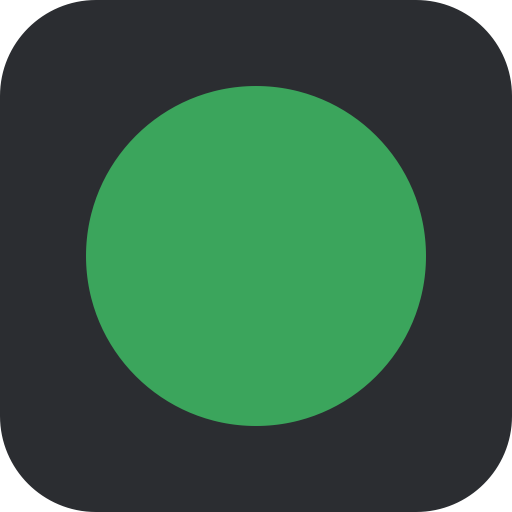
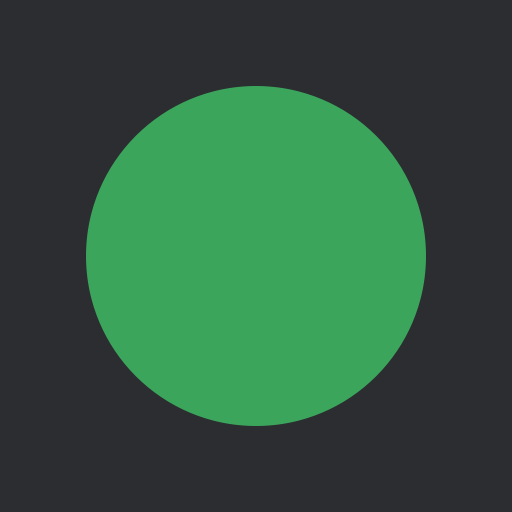
Full-square Discord art (v2_ keys), setup guide, README for Mac and Windows
The first Discord pictures had their own rounded corners on a white background,
which left white specks once Discord rounded them again. v2_* fills the square and
lets Discord do the rounding; both apps now ask for the v2_ keys, and the old keys
stay on Discord so 1.0.0 keeps working. docs/SETUP.md walks through setup with
screenshots from the demo-mode harnesses.

diff --git a/mac/Tests/CoreTests.swift b/mac/Tests/CoreTests.swift
@@ -58,7 +58,7 @@ final class CoreTests: XCTestCase {
         XCTAssertEqual(a["type"] as? Int, 3)
         XCTAssertEqual(a["details"] as? String, "123 mg/dL ↗")
         XCTAssertEqual(a["state"] as? String, "Rising slowly")
-        XCTAssertEqual((a["assets"] as? [String: String])?["large_image"], "up_45")
+        XCTAssertEqual((a["assets"] as? [String: String])?["large_image"], "v2_up_45")
     }
 
     func testDotModeNeverShowsTheNumber() {
@@ -67,7 +67,7 @@ final class CoreTests: XCTestCase {
         let a = Presence.activity(reading: r, now: now, mode: .dot, unit: .mgdl, verb: .playing, low: 70, high: 180)
         XCTAssertEqual(a["type"] as? Int, 0)
         XCTAssertEqual(a["details"] as? String, "High")
-        XCTAssertEqual((a["assets"] as? [String: String])?["large_image"], "dot_yellow")
+        XCTAssertEqual((a["assets"] as? [String: String])?["large_image"], "v2_dot_yellow")
         XCTAssertFalse(String(describing: a).contains("250"))
         XCTAssertNil(a["state"])
     }

diff --git a/mac/BloodGlucoseBuddy/Core/Presence.swift b/mac/BloodGlucoseBuddy/Core/Presence.swift
@@ -30,9 +30,9 @@ enum Band: Equatable {
     }
     var asset: String {
         switch self {
-        case .low: return "dot_red"
-        case .inRange: return "dot_green"
-        case .high: return "dot_yellow"
+        case .low: return "v2_dot_red"
+        case .inRange: return "v2_dot_green"
+        case .high: return "v2_dot_yellow"
         }
     }
 }
@@ -66,7 +66,7 @@ enum Presence {
         var activity: [String: Any] = ["type": verb.activityType]
         guard let r = reading, isFresh(r, now: now) else {
             activity["details"] = "No reading"
-            activity["assets"] = ["large_image": "dot_gray", "large_text": "No recent reading"]
+            activity["assets"] = ["large_image": "v2_dot_gray", "large_text": "No recent reading"]
             return activity
         }
         let b = band(r.mgdl, low: low, high: high)

diff --git a/mac/BloodGlucoseBuddy/Core/Dexcom.swift b/mac/BloodGlucoseBuddy/Core/Dexcom.swift
@@ -73,13 +73,13 @@ enum Trend: String {
     /// Discord art asset key, uploaded to the "Blood Glucose" application.
     var asset: String? {
         switch self {
-        case .doubleUp: return "double_up"
-        case .singleUp: return "up"
-        case .fortyFiveUp: return "up_45"
-        case .flat: return "flat"
-        case .fortyFiveDown: return "down_45"
-        case .singleDown: return "down"
-        case .doubleDown: return "double_down"
+        case .doubleUp: return "v2_double_up"
+        case .singleUp: return "v2_up"
+        case .fortyFiveUp: return "v2_up_45"
+        case .flat: return "v2_flat"
+        case .fortyFiveDown: return "v2_down_45"
+        case .singleDown: return "v2_down"
+        case .doubleDown: return "v2_double_down"
         default: return nil
         }
     }

diff --git a/windows/Core/Presence.cs b/windows/Core/Presence.cs
@@ -14,7 +14,7 @@ public static class Labels
     public static string Label(this StatusVerb v) => v == StatusVerb.Watching ? "Watching" : "Playing";
     public static int ActivityType(this StatusVerb v) => v == StatusVerb.Watching ? 3 : 0;
     public static string Word(this Band b) => b switch { Band.Low => "Low", Band.High => "High", _ => "In range" };
-    public static string Asset(this Band b) => b switch { Band.Low => "dot_red", Band.High => "dot_yellow", _ => "dot_green" };
+    public static string Asset(this Band b) => b switch { Band.Low => "v2_dot_red", Band.High => "v2_dot_yellow", _ => "v2_dot_green" };
 }
 
 public static class Presence
@@ -49,7 +49,7 @@ public static class Presence
         if (reading is null || !IsFresh(reading, now))
         {
             activity["details"] = "No reading";
-            activity["assets"] = new Dictionary<string, string> { ["large_image"] = "dot_gray", ["large_text"] = "No recent reading" };
+            activity["assets"] = new Dictionary<string, string> { ["large_image"] = "v2_dot_gray", ["large_text"] = "No recent reading" };
             return activity;
         }
         var band = BandOf(reading.Mgdl, low, high);

diff --git a/windows/Tests/CoreTests.cs b/windows/Tests/CoreTests.cs
@@ -61,7 +61,7 @@ public class CoreTests
         Assert.Equal(3, a["type"]);
         Assert.Equal("123 mg/dL ↗", a["details"]);
         Assert.Equal("Rising slowly", a["state"]);
-        Assert.Equal("up_45", ((Dictionary<string, string>)a["assets"])["large_image"]);
+        Assert.Equal("v2_up_45", ((Dictionary<string, string>)a["assets"])["large_image"]);
     }
 
     [Fact]
@@ -71,7 +71,7 @@ public class CoreTests
         var a = Presence.Activity(new Reading(250, Trend.SingleUp, now), now, DisplayMode.Dot, GlucoseUnit.Mgdl, StatusVerb.Playing, 70, 180);
         Assert.Equal(0, a["type"]);
         Assert.Equal("High", a["details"]);
-        Assert.Equal("dot_yellow", ((Dictionary<string, string>)a["assets"])["large_image"]);
+        Assert.Equal("v2_dot_yellow", ((Dictionary<string, string>)a["assets"])["large_image"]);
         Assert.DoesNotContain("250", System.Text.Json.JsonSerializer.Serialize(a));
         Assert.False(a.ContainsKey("state"));
     }

diff --git a/windows/Core/Dexcom.cs b/windows/Core/Dexcom.cs
@@ -57,8 +57,8 @@ public static class Trends
     /// <summary>Discord art asset key, uploaded to the "Blood Glucose" application.</summary>
     public static string? Asset(this Trend t) => t switch
     {
-        Trend.DoubleUp => "double_up", Trend.SingleUp => "up", Trend.FortyFiveUp => "up_45", Trend.Flat => "flat",
-        Trend.FortyFiveDown => "down_45", Trend.SingleDown => "down", Trend.DoubleDown => "double_down", _ => null,
+        Trend.DoubleUp => "v2_double_up", Trend.SingleUp => "v2_up", Trend.FortyFiveUp => "v2_up_45", Trend.Flat => "v2_flat",
+        Trend.FortyFiveDown => "v2_down_45", Trend.SingleDown => "v2_down", Trend.DoubleDown => "v2_double_down", _ => null,
     };
 }
 

diff --git a/README.md b/README.md
@@ -1,62 +1,100 @@
 # Blood Glucose Buddy
 
-Rich Presence for Discord: your live Dexcom reading and trend arrow on your Discord profile.
+Rich Presence for Discord: your live Dexcom reading and trend arrow on your Discord profile. For Mac and Windows.
 
-Website: **[bloodglucosebuddy.tanookistudios.com](https://bloodglucosebuddy.tanookistudios.com)** — download, setup steps and every version.
+Website: **[bloodglucosebuddy.tanookistudios.com](https://bloodglucosebuddy.tanookistudios.com)** · Setup guide with screenshots: **[docs/SETUP.md](docs/SETUP.md)**
 
-```
-Watching Blood Glucose
-112 mg/dL ↗
-Rising slowly
-02:14 elapsed
-```
+| Number mode | Colored dot mode |
+|---|---|
+| ![Drawing of a Discord profile: Watching Blood Glucose, 112 mg/dL rising slowly](docs/screenshots/discord/number.png) | ![Drawing of a Discord profile: Watching Blood Glucose, a green dot and In range](docs/screenshots/discord/dot.png) |
 
-- Lives in the Mac menu bar, shows your number there too, starts at login.
+<sub>Drawings of what Discord shows, made from the same pictures the app sends.</sub>
+
+- Lives in the Mac menu bar or the Windows tray, shows your number there too, and starts when you log in.
 - Number mode, or colored-dot-only mode (In range / High / Low) for people who'd rather not share the number.
 - mg/dL or mmol/L. "Watching" or "Playing". Your own high and low lines.
 - A reading older than 15 minutes shows as **No reading**, never as a stale number.
-- Dexcom password in the macOS Keychain. No account, no server, no analytics.
+- Dexcom password in the macOS Keychain or Windows Credential Manager. No account, no server, no analytics.
 
-**Open source, MIT licensed.**
+**Free and open source, MIT licensed.**
 
 > **Not a medical device.** Never make treatment decisions from Blood Glucose Buddy — use your Dexcom app or receiver. It reads Dexcom's unofficial Share feed, which can stop working without notice. Not affiliated with or endorsed by Dexcom or Discord.
 
+## Download
+
+| | |
+|---|---|
+| **Mac** (macOS 15+) | [Latest release](https://github.com/TanookiStudios/BloodGlucoseBuddy/releases/latest) — signed and notarized by Apple. |
+| **Windows** (Windows 11) | **In testing.** A [test build](https://github.com/TanookiStudios/BloodGlucoseBuddy/releases/tag/v1.1.0-beta.1) is up; the full release follows once it's been tried on real PCs. Not yet code-signed, so Windows asks you to click **More info → Run anyway** the first time. |
+
+Then follow the **[setup guide](docs/SETUP.md)**: turn on Dexcom Share, sign in, and switch on one Discord setting.
+
+## Screenshots
+
+**Mac** — the menu bar, its menu, and settings:
+
+![The Mac menu bar showing 112 and an arrow](docs/screenshots/mac/04-menu-bar.png)
+
+| | |
+|---|---|
+| ![The Mac menu](docs/screenshots/mac/05-menu.png) | ![Mac settings after signing in](docs/screenshots/mac/03-settings-signed-in.png) |
+
+**Windows** — the tray icon in each state, its menu, and settings:
+
+![Windows tray icons: 112 on green, 64 on red, 245 on yellow, 6.2 on green](docs/screenshots/windows/04-tray-icons.png)
+
+| | |
+|---|---|
+| ![The Windows tray menu](docs/screenshots/windows/03-menu.png) | ![Windows settings after signing in](docs/screenshots/windows/02-settings-signed-in.png) |
+
+Every screen is in the [setup guide](docs/SETUP.md). All screenshots come from automated runs with made-up readings (see below), never a real account.
+
 ## How it works
 
-- **Dexcom:** Dexcom's official developer API delays data by an hour (three outside the US), so this reads **Dexcom Share** instead — the live feed the Follow app uses — with the user's own login. Share has to be on with at least one follower. Some accounts won't authenticate by email or phone; the app's *Find My Account ID* opens Dexcom's own sign-in page and reads the account ID from the profile page address. Code: `mac/BloodGlucoseBuddy/Core/Dexcom.swift`.
-- **Discord:** Rich Presence over the desktop app's local socket (`$TMPDIR/discord-ipc-N`). One shared Discord application ("Blood Glucose", ID `1558184055437004933`) holds the arrow and dot pictures in `assets/`. Setting a *custom status* from code would be a self-bot, which Discord bans, so this doesn't. Code: `mac/BloodGlucoseBuddy/Core/Discord.swift`.
-- **What's shown:** `mac/BloodGlucoseBuddy/Core/Presence.swift`.
-
-Users need Discord's **User Settings → Activity Privacy → Share your detected activities with others** turned on.
+- **Dexcom:** Dexcom's official developer API delays data by an hour (three outside the US), so this reads **Dexcom Share** instead — the live feed the Follow app uses — with the user's own login. Share has to be on with at least one follower. Some accounts won't authenticate by email or phone; *Find My Account ID* opens Dexcom's own sign-in page and reads the account ID from the profile page address.
+- **Discord:** Rich Presence over the desktop app's local IPC (`$TMPDIR/discord-ipc-N` on Mac, the `\\.\pipe\discord-ipc-N` named pipe on Windows). One shared Discord application ("Blood Glucose", ID `1558184055437004933`) holds the arrow and dot pictures in `assets/discord/`. Setting a *custom status* from code would be a self-bot, which Discord bans, so this doesn't.
+- **What's shown:** `mac/BloodGlucoseBuddy/Core/Presence.swift` and `windows/Core/Presence.cs` — the same rules, tested on both sides.
 
 ## Building
 
-Mac app (macOS 15+, Xcode 26, [XcodeGen](https://github.com/yonaskolb/XcodeGen)):
+### Mac
+
+macOS 15+, Xcode 26, [XcodeGen](https://github.com/yonaskolb/XcodeGen):
 
 ```bash
-cd mac
-xcodegen generate
-open BloodGlucoseBuddy.xcodeproj
+cd mac && xcodegen generate && open BloodGlucoseBuddy.xcodeproj
 ```
 
-The app is not sandboxed: the Mac sandbox blocks Discord's local socket. Tests cover the Dexcom parsing, the Discord message framing and what gets shown:
+Not sandboxed: the Mac sandbox blocks Discord's local socket. To sign your own copy, change `DEVELOPMENT_TEAM` in `mac/project.yml`.
 
 ```bash
 xcodebuild test -project mac/BloodGlucoseBuddy.xcodeproj -scheme BloodGlucoseBuddyTests -destination 'platform=macOS'
 ```
 
-To build your own signed copy, change `DEVELOPMENT_TEAM` in `mac/project.yml` to your team.
+### Windows
+
+.NET 10 SDK. Builds on Windows, Mac or Linux:
+
+```bash
+dotnet test windows/Tests
+dotnet publish windows/App -c Release -o dist/win
+```
+
+`dist/win/BloodGlucoseBuddy.exe` is one self-contained file. The [Windows workflow](.github/workflows/windows.yml) builds it on a real Windows machine, runs the unit tests, runs `--self-test` (Credential Manager, the Start-with-Windows registry entry, the Discord pipe, Dexcom over HTTPS, tray icons), and renders the screenshots with `--screenshots`.
+
+## Screenshots, regenerated
+
+- **Mac:** `scripts/capture-screenshots-mac.sh` runs the UI tests in `mac/UITests`, which drive the real app with `BGB_DEMO=1`. That one switch gives the app throwaway settings, an in-memory password, made-up readings, and no Dexcom, Keychain, Discord or login item. The script fails if any screen is missing. The app is on screen for about a minute.
+- **Windows:** the workflow's `--screenshots` step; download the `windows-build` artifact.
+- **Discord drawings:** rendered from `site/style.css`.
 
 ## Releasing
 
-1. Bump `MARKETING_VERSION` in `mac/project.yml` and add notes to the top of `site/versions.json`.
+1. Bump `MARKETING_VERSION` in `mac/project.yml` and `<Version>` in `windows/App/BloodGlucoseBuddy.csproj`, and add notes to the top of `site/versions.json`.
 2. `scripts/release-mac.sh` — tests, builds, signs, notarizes and zips into `dist/`.
-3. `gh release create v<version> dist/BloodGlucoseBuddy-<version>-mac.zip`
-4. `node site/build.mjs --deploy`
-
-## Windows
-
-On the way.
+3. Windows: `dotnet publish windows/App -c Release -o dist/win`.
+4. `gh release create v<version> dist/BloodGlucoseBuddy-<version>-mac.zip dist/BloodGlucoseBuddy-<version>-windows.exe`
+5. `node site/build.mjs --deploy`
 
 ## License
 

diff --git a/docs/SETUP.md b/docs/SETUP.md
@@ -1,0 +1,115 @@
+# Setting Up Blood Glucose Buddy
+
+About five minutes, once. Screenshots of Blood Glucose Buddy itself come from an automated run with a made-up account and made-up readings. The Dexcom and Discord steps have no screenshots because they happen in those companies' own apps.
+
+> **Not a medical device.** Never make treatment decisions from Blood Glucose Buddy — use your Dexcom app or receiver. Not affiliated with or endorsed by Dexcom or Discord.
+
+## 1. Turn on Dexcom Share
+
+Blood Glucose Buddy reads the same live feed your followers see, so Share has to be on. If someone already follows you in the Dexcom Follow app, it's on and you can skip this step.
+
+1. Open the **Dexcom app** on your phone.
+2. Tap the **Share** icon. It looks like two little people.
+3. Turn **Share** on.
+4. Invite one follower. Any email address of your own will do, and nobody has to accept the invite.
+
+## 2. Install it
+
+**Mac** (macOS 15 or later):
+
+1. Download the latest Mac zip from the [Releases page](https://github.com/TanookiStudios/BloodGlucoseBuddy/releases).
+2. Double-click the zip to unzip it.
+3. Drag **Blood Glucose Buddy** into your **Applications** folder, then open it. It's signed and notarized by Apple, so it opens without warnings.
+
+**Windows** (Windows 11):
+
+1. Download `BloodGlucoseBuddy-…-windows.exe` from the [Releases page](https://github.com/TanookiStudios/BloodGlucoseBuddy/releases). It's a single file; there's nothing to install.
+2. Open it. Until the app is code-signed, Windows shows a blue box saying **Windows protected your PC**. Click **More info**, then **Run anyway**. You only have to do this once.
+
+## 3. Sign in with your Dexcom login
+
+A sign-in window opens the first time. Use **your own** Dexcom login, the one you use in the Dexcom app, not a follower's. Phone numbers need a plus and your country code, like `+15551234567`.
+
+| Mac | Windows |
+|---|---|
+| ![The Mac sign-in window: username, password, region, and a Find My Account ID button](screenshots/mac/01-sign-in.png) | ![The Windows settings window before signing in](screenshots/windows/01-sign-in.png) |
+
+Fill it in and press **Sign In**:
+
+![The Mac sign-in window filled in with an example email and a hidden password](screenshots/mac/02-sign-in-filled.png)
+
+### If Dexcom won't accept your email or phone
+
+A lot of Dexcom accounts only work here with their **account ID**, even when the password is right. You don't have to go hunting for it:
+
+1. Press **Find My Account ID…** in the sign-in window.
+2. Dexcom's own sign-in page opens inside the app. Sign in there.
+3. When Dexcom shows your profile, the window closes and your account ID appears in the username box.
+4. Type your password once more and press **Sign In**.
+
+The app only reads the page address to pick up your ID. What you type on Dexcom's page goes to Dexcom, not to the app, and that sign-in is forgotten as soon as the window closes.
+
+If Dexcom says your account is locked, that's from too many wrong passwords. Blood Glucose Buddy stops trying the moment a password is turned down, so it won't make it worse. Wait about half an hour and try again.
+
+## 4. Let Discord show it
+
+Discord hides activity from apps until you switch this on, on each computer:
+
+1. In the **Discord desktop app**, click the **gear** at the bottom left, next to your name. That opens User Settings.
+2. Under **Activity Settings**, choose **Activity Privacy**.
+3. Turn on **Share your detected activities with others**.
+
+## 5. Check it worked
+
+Your number appears in the Mac menu bar, or on the tray icon by the Windows clock:
+
+| Mac menu bar | Windows tray icon |
+|---|---|
+| ![The Mac menu bar showing 112 and an arrow](screenshots/mac/04-menu-bar.png) | ![Windows tray icons: 112 on green, 64 on red, 245 on yellow, 6.2 on green](screenshots/windows/04-tray-icons.png) |
+
+Then click your own picture in Discord. Under your name you'll see something like this (drawing):
+
+![Drawing of a Discord profile card: Watching Blood Glucose, 112 mg/dL rising slowly, 2 minutes elapsed](screenshots/discord/number.png)
+
+The "elapsed" time is how old the reading is.
+
+## 6. Change what's shown
+
+Click the number in the Mac menu bar, or right-click the Windows tray icon:
+
+| Mac | Windows |
+|---|---|
+| ![The Mac menu: current reading, Discord status, and the options](screenshots/mac/05-menu.png) | ![The Windows tray menu with the same options](screenshots/windows/03-menu.png) |
+
+- **Show on Discord:** your number, or **Colored dot only**, which shows In range, High or Low and never the number.
+
+  ![The Show on Discord choices: Number or Colored dot only](screenshots/mac/06-menu-show-on-discord.png)
+
+  ![Drawing of the colored dot mode on Discord: a green dot and In range](screenshots/discord/dot.png)
+
+- **Units:** mg/dL or mmol/L.
+
+  ![The Units choices](screenshots/mac/07-menu-units.png)
+
+- **Status word:** "Watching Blood Glucose" or "Playing Blood Glucose".
+
+  ![The Status Word choices](screenshots/mac/08-menu-status-word.png)
+
+- **Open at Login / Start with Windows:** on by default after you sign in.
+
+**Settings** has your account, the high and low lines for colored dot mode, and the Discord tips:
+
+| Mac | Windows |
+|---|---|
+| ![Mac settings after signing in](screenshots/mac/03-settings-signed-in.png) | ![Windows settings after signing in](screenshots/windows/02-settings-signed-in.png) |
+
+## Who can see it
+
+Anyone who can see your Discord profile: friends, and people in every server you're in. To hide it from one server, right-click that server in Discord, choose **Privacy Settings**, and turn off **Activity Status**. Or use colored dot mode so nobody sees a number.
+
+## Something's not right
+
+- **It says No reading.** Your latest reading is over fifteen minutes old. The sensor may be warming up, or your phone lost signal. It picks back up by itself.
+- **Nothing on Discord.** Check step 4, and that the Discord **desktop** app is open on the same computer. Discord in a web browser can't show it.
+- **"Discord isn't open."** Open the Discord desktop app. Blood Glucose Buddy reconnects within 30 seconds.
+- **Signed in, but no readings.** Dexcom Share is off, or has no follower yet. See step 1.
